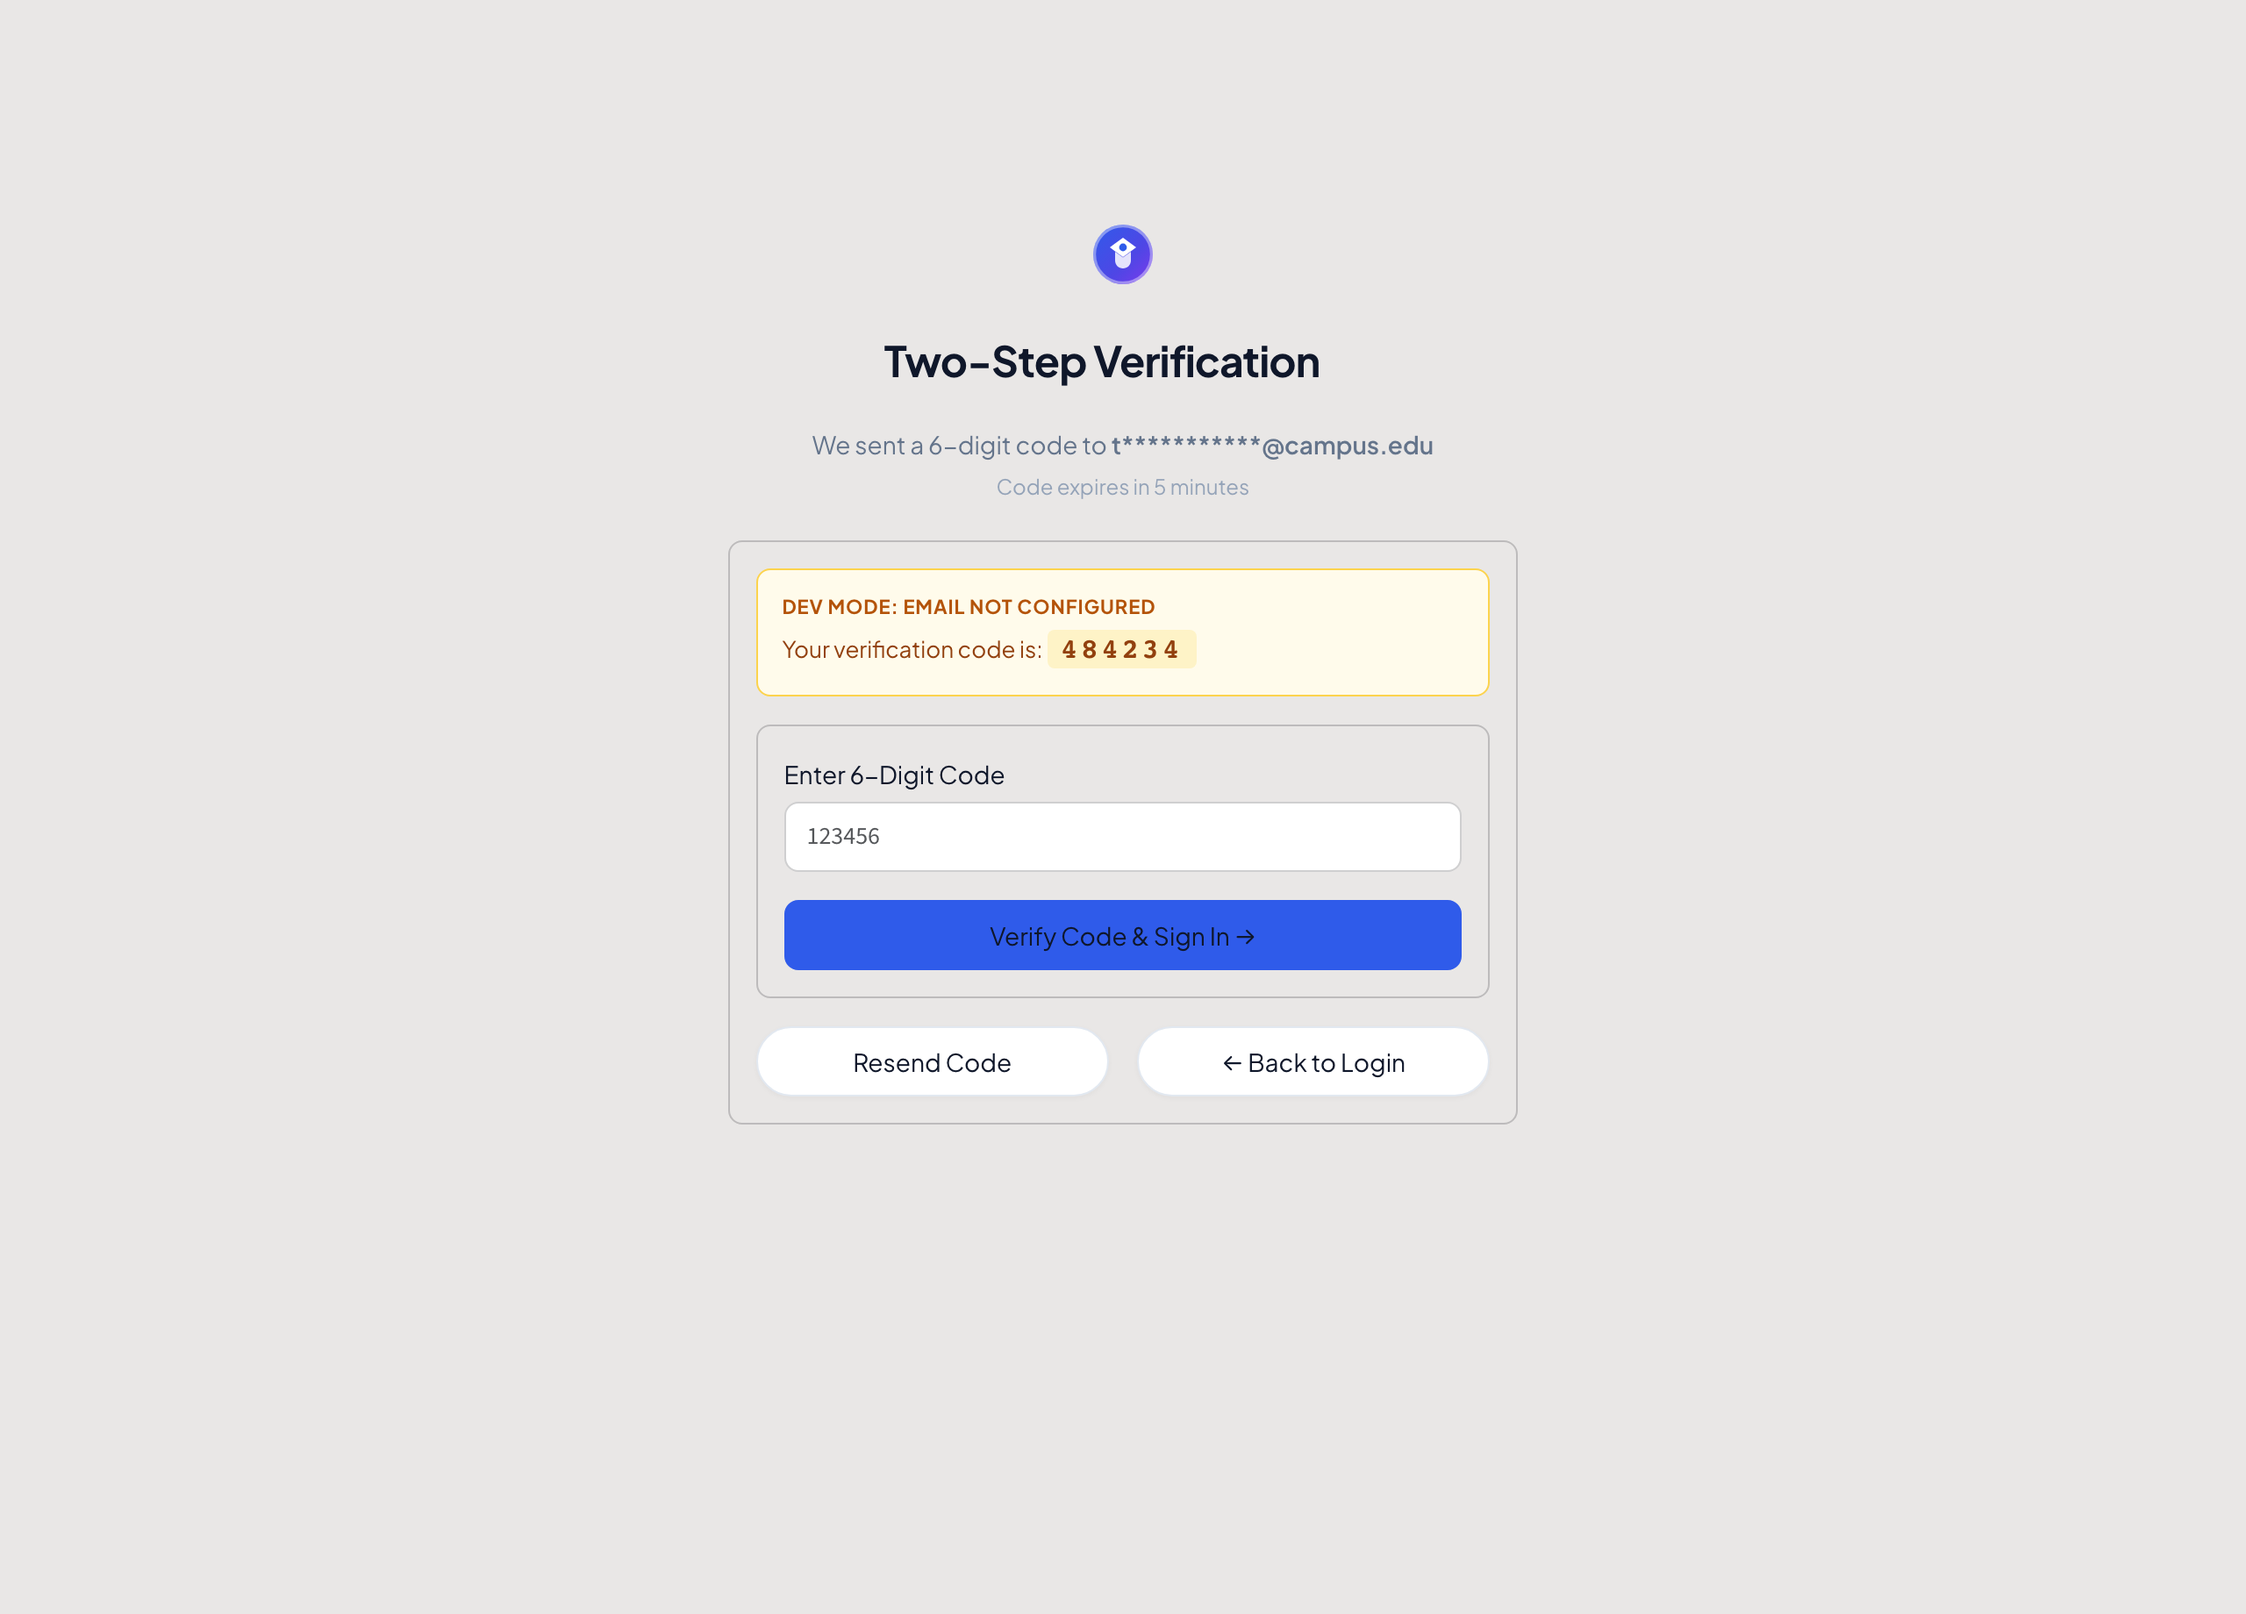
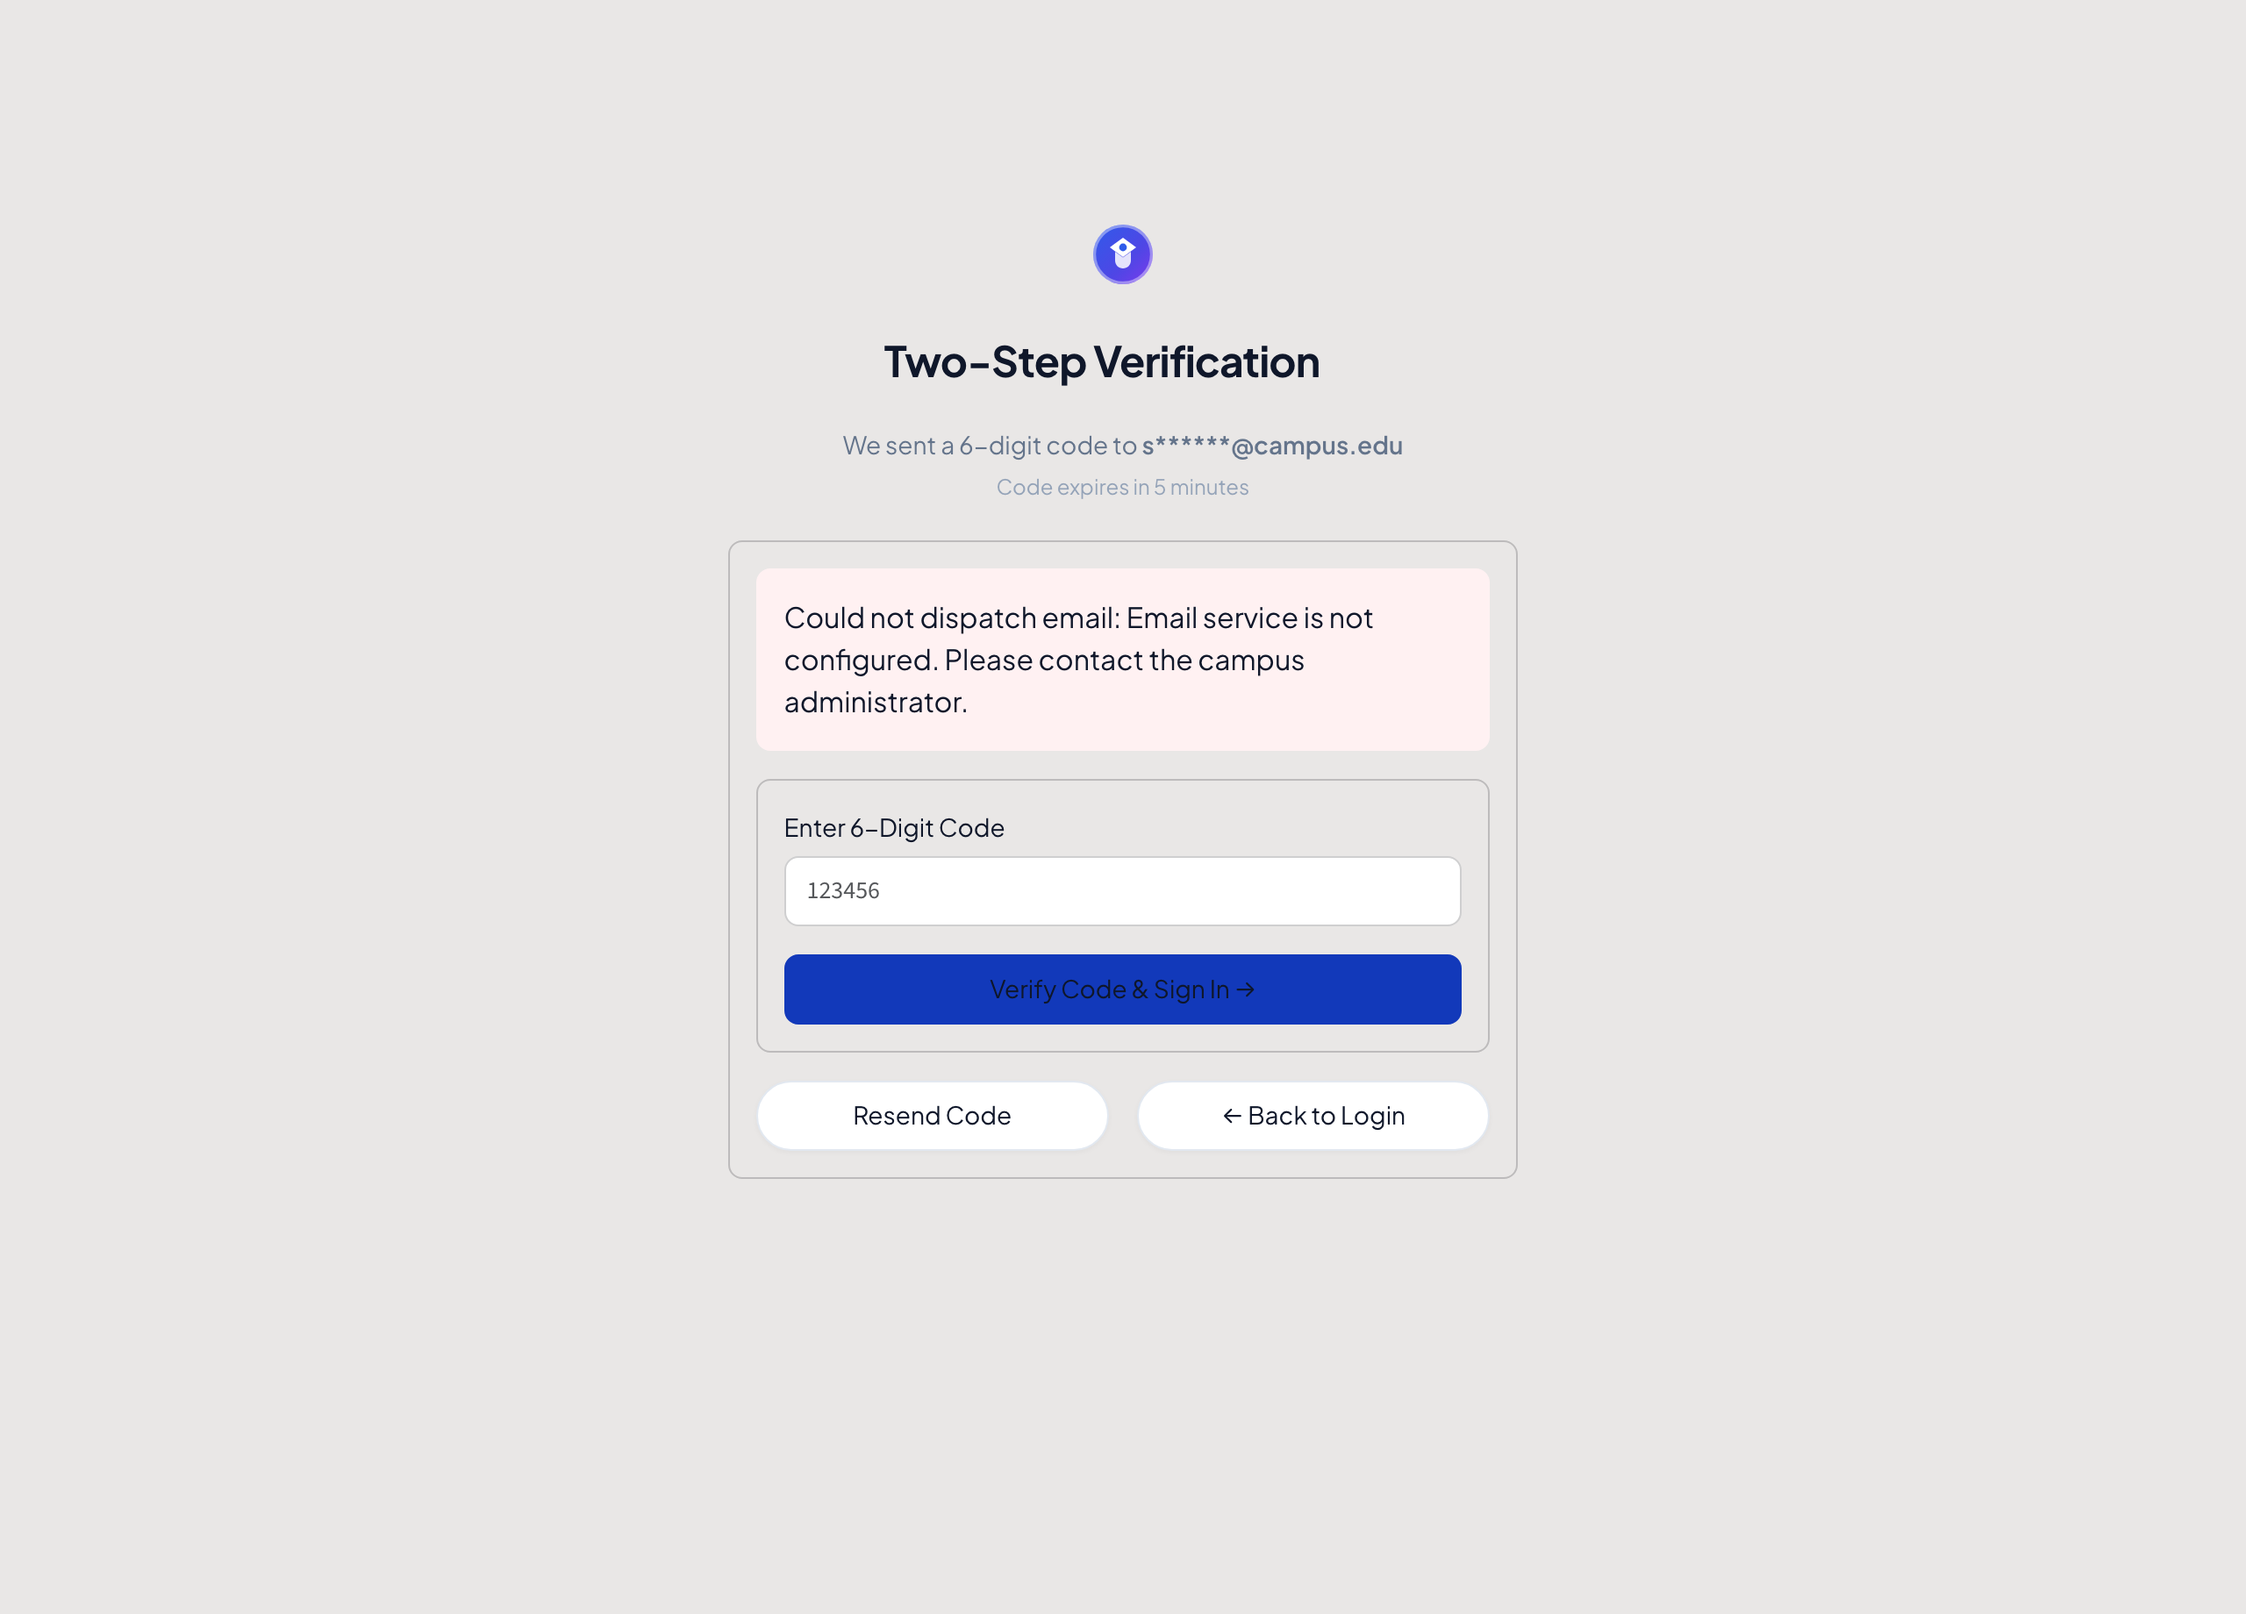
fix(ui,auth): completely remove DEV MODE amber box from OTP screen and purge raw_otp_dev from session state

Changed region(s): [[0.3125, 0.3717, 0.6875, 0.7125], [0.5, 0.2478, 0.625, 0.2788], [0.4062, 0.2478, 0.4688, 0.2788]]

diff --git a/ui/pages/otp.py b/ui/pages/otp.py
@@ -24,7 +24,6 @@ def render_otp_page():
     user = pending["user"]
     user_id = user["id"]
     masked_email = pending.get("masked_email", "your email")
-    dev_otp = pending.get("raw_otp_dev")
     mail_sent = pending.get("mail_sent", False)
     mail_note = pending.get("mail_note", "")
 
@@ -44,20 +43,8 @@ def render_otp_page():
         """, unsafe_allow_html=True)
 
         with st.container(border=True):
-            # If Dev Mode is active and SMTP is not configured, show prominent amber box
-            if settings.DEV_MODE and dev_otp:
-                st.markdown(f"""
-                <div style="background:#FFFBEB; border:1px solid #FCD34D; border-radius:8px; padding:12px 14px; margin-bottom:16px;">
-                    <div style="font-size:11px; font-weight:700; color:#B45309; text-transform:uppercase; letter-spacing:0.04em; margin-bottom:4px;">
-                        DEV MODE: Email not configured
-                    </div>
-                    <div style="font-size:13px; color:#92400E;">
-                        Your verification code is: <strong style="font-size:16px; font-family:monospace; letter-spacing:2px; background:#FEF3C7; padding:2px 8px; border-radius:4px;">{dev_otp}</strong>
-                    </div>
-                </div>
-                """, unsafe_allow_html=True)
-            elif not mail_sent:
-                st.warning(f"Could not dispatch email: {mail_note}. If in testing mode, enable DEV_MODE in .env.")
+            if not mail_sent and mail_note:
+                st.error(f"Could not dispatch email: {mail_note}")
 
             with st.form("otp_submit_form", clear_on_submit=False):
                 entered_otp = st.text_input(
@@ -101,8 +88,7 @@ def render_otp_page():
                     if ok:
                         user_email = user.get("email", "")
                         send_otp_email(user_email, code_or_err, user_name=user.get("name", "Student"))
-                        st.session_state.pending_auth["raw_otp_dev"] = code_or_err if settings.DEV_MODE else None
-                        st.success("A new verification code has been dispatched.")
+                        st.success("A new verification code has been dispatched to your email.")
                         st.rerun()
                     else:
                         if retry_after > 0:

diff --git a/ui/pages/login.py b/ui/pages/login.py
@@ -101,7 +101,6 @@ def render_login_page():
                                     "user": user,
                                     "email": cleaned_email,
                                     "masked_email": mask_email(cleaned_email),
-                                    "raw_otp_dev": raw_otp if settings.DEV_MODE else None,
                                     "mail_sent": mail_success,
                                     "mail_note": mail_msg,
                                     "created_at": time.time()
@@ -171,7 +170,6 @@ def render_login_page():
                                     "user": user,
                                     "email": user_email,
                                     "masked_email": mask_email(user_email),
-                                    "raw_otp_dev": raw_otp if settings.DEV_MODE else None,
                                     "mail_sent": mail_success,
                                     "mail_note": mail_msg,
                                     "created_at": time.time()
@@ -274,7 +272,6 @@ def render_login_page():
                                             "user": new_user,
                                             "email": cleaned_email,
                                             "masked_email": mask_email(cleaned_email),
-                                            "raw_otp_dev": raw_otp if settings.DEV_MODE else None,
                                             "mail_sent": mail_success,
                                             "mail_note": mail_msg,
                                             "created_at": time.time()
